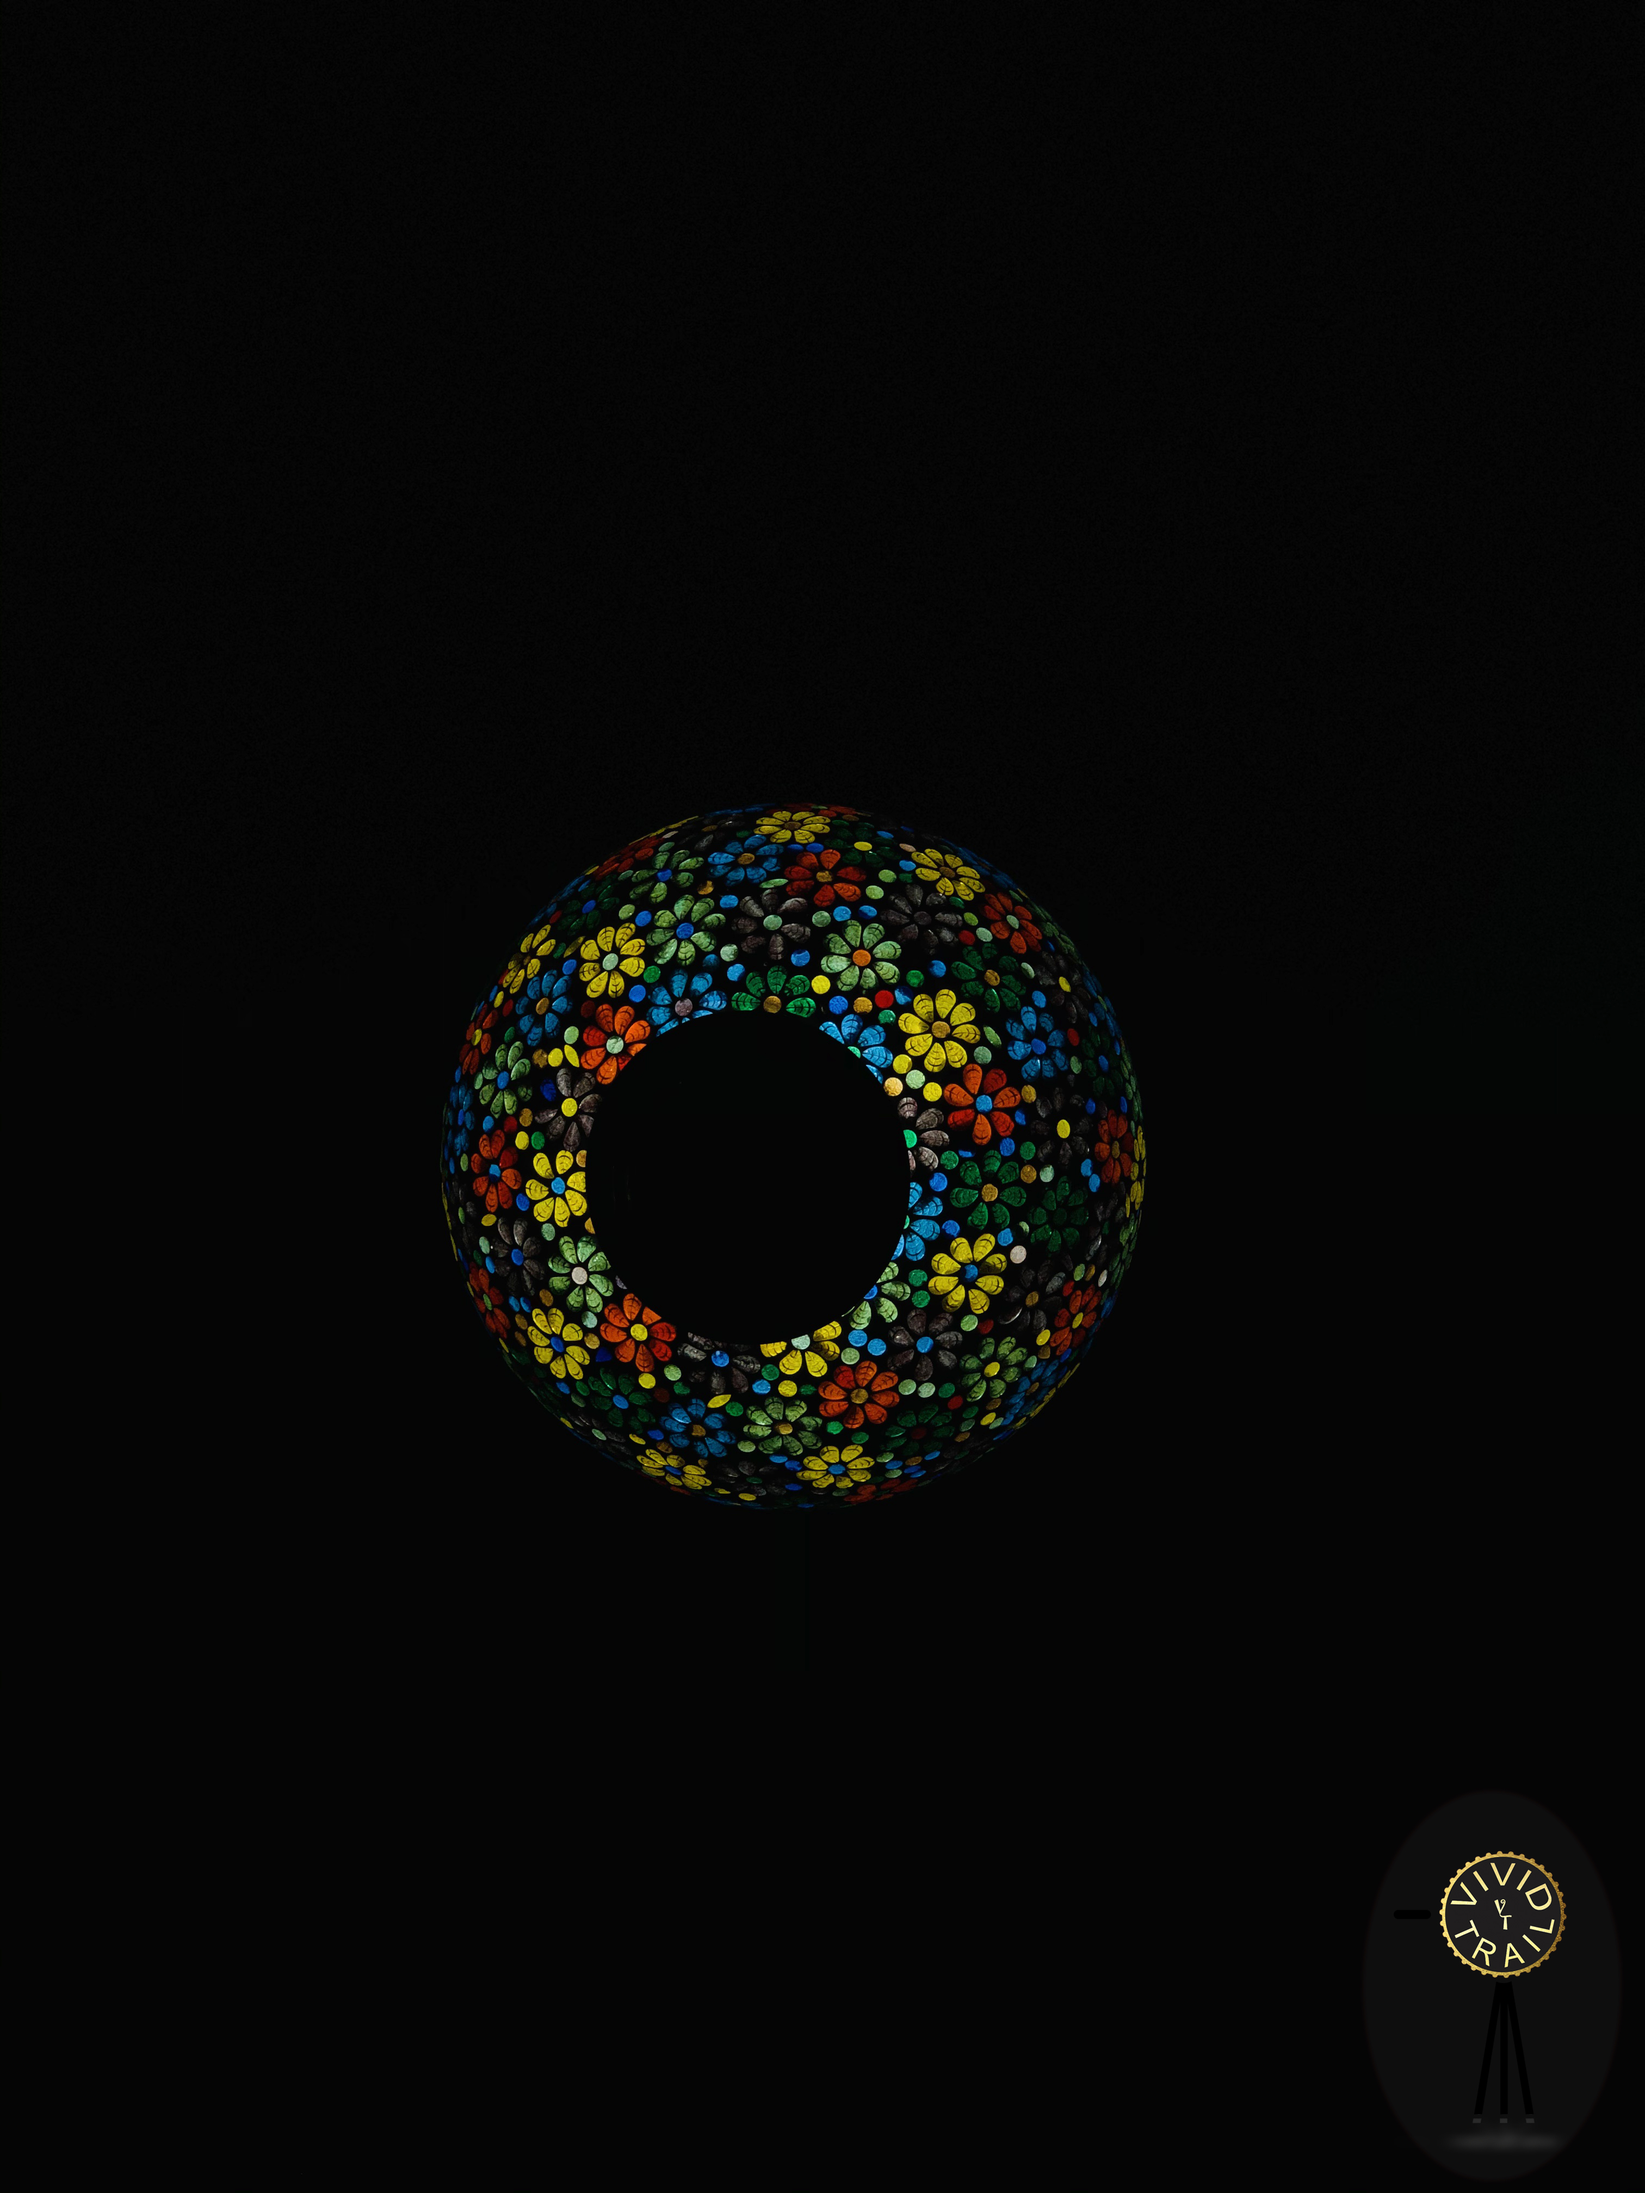
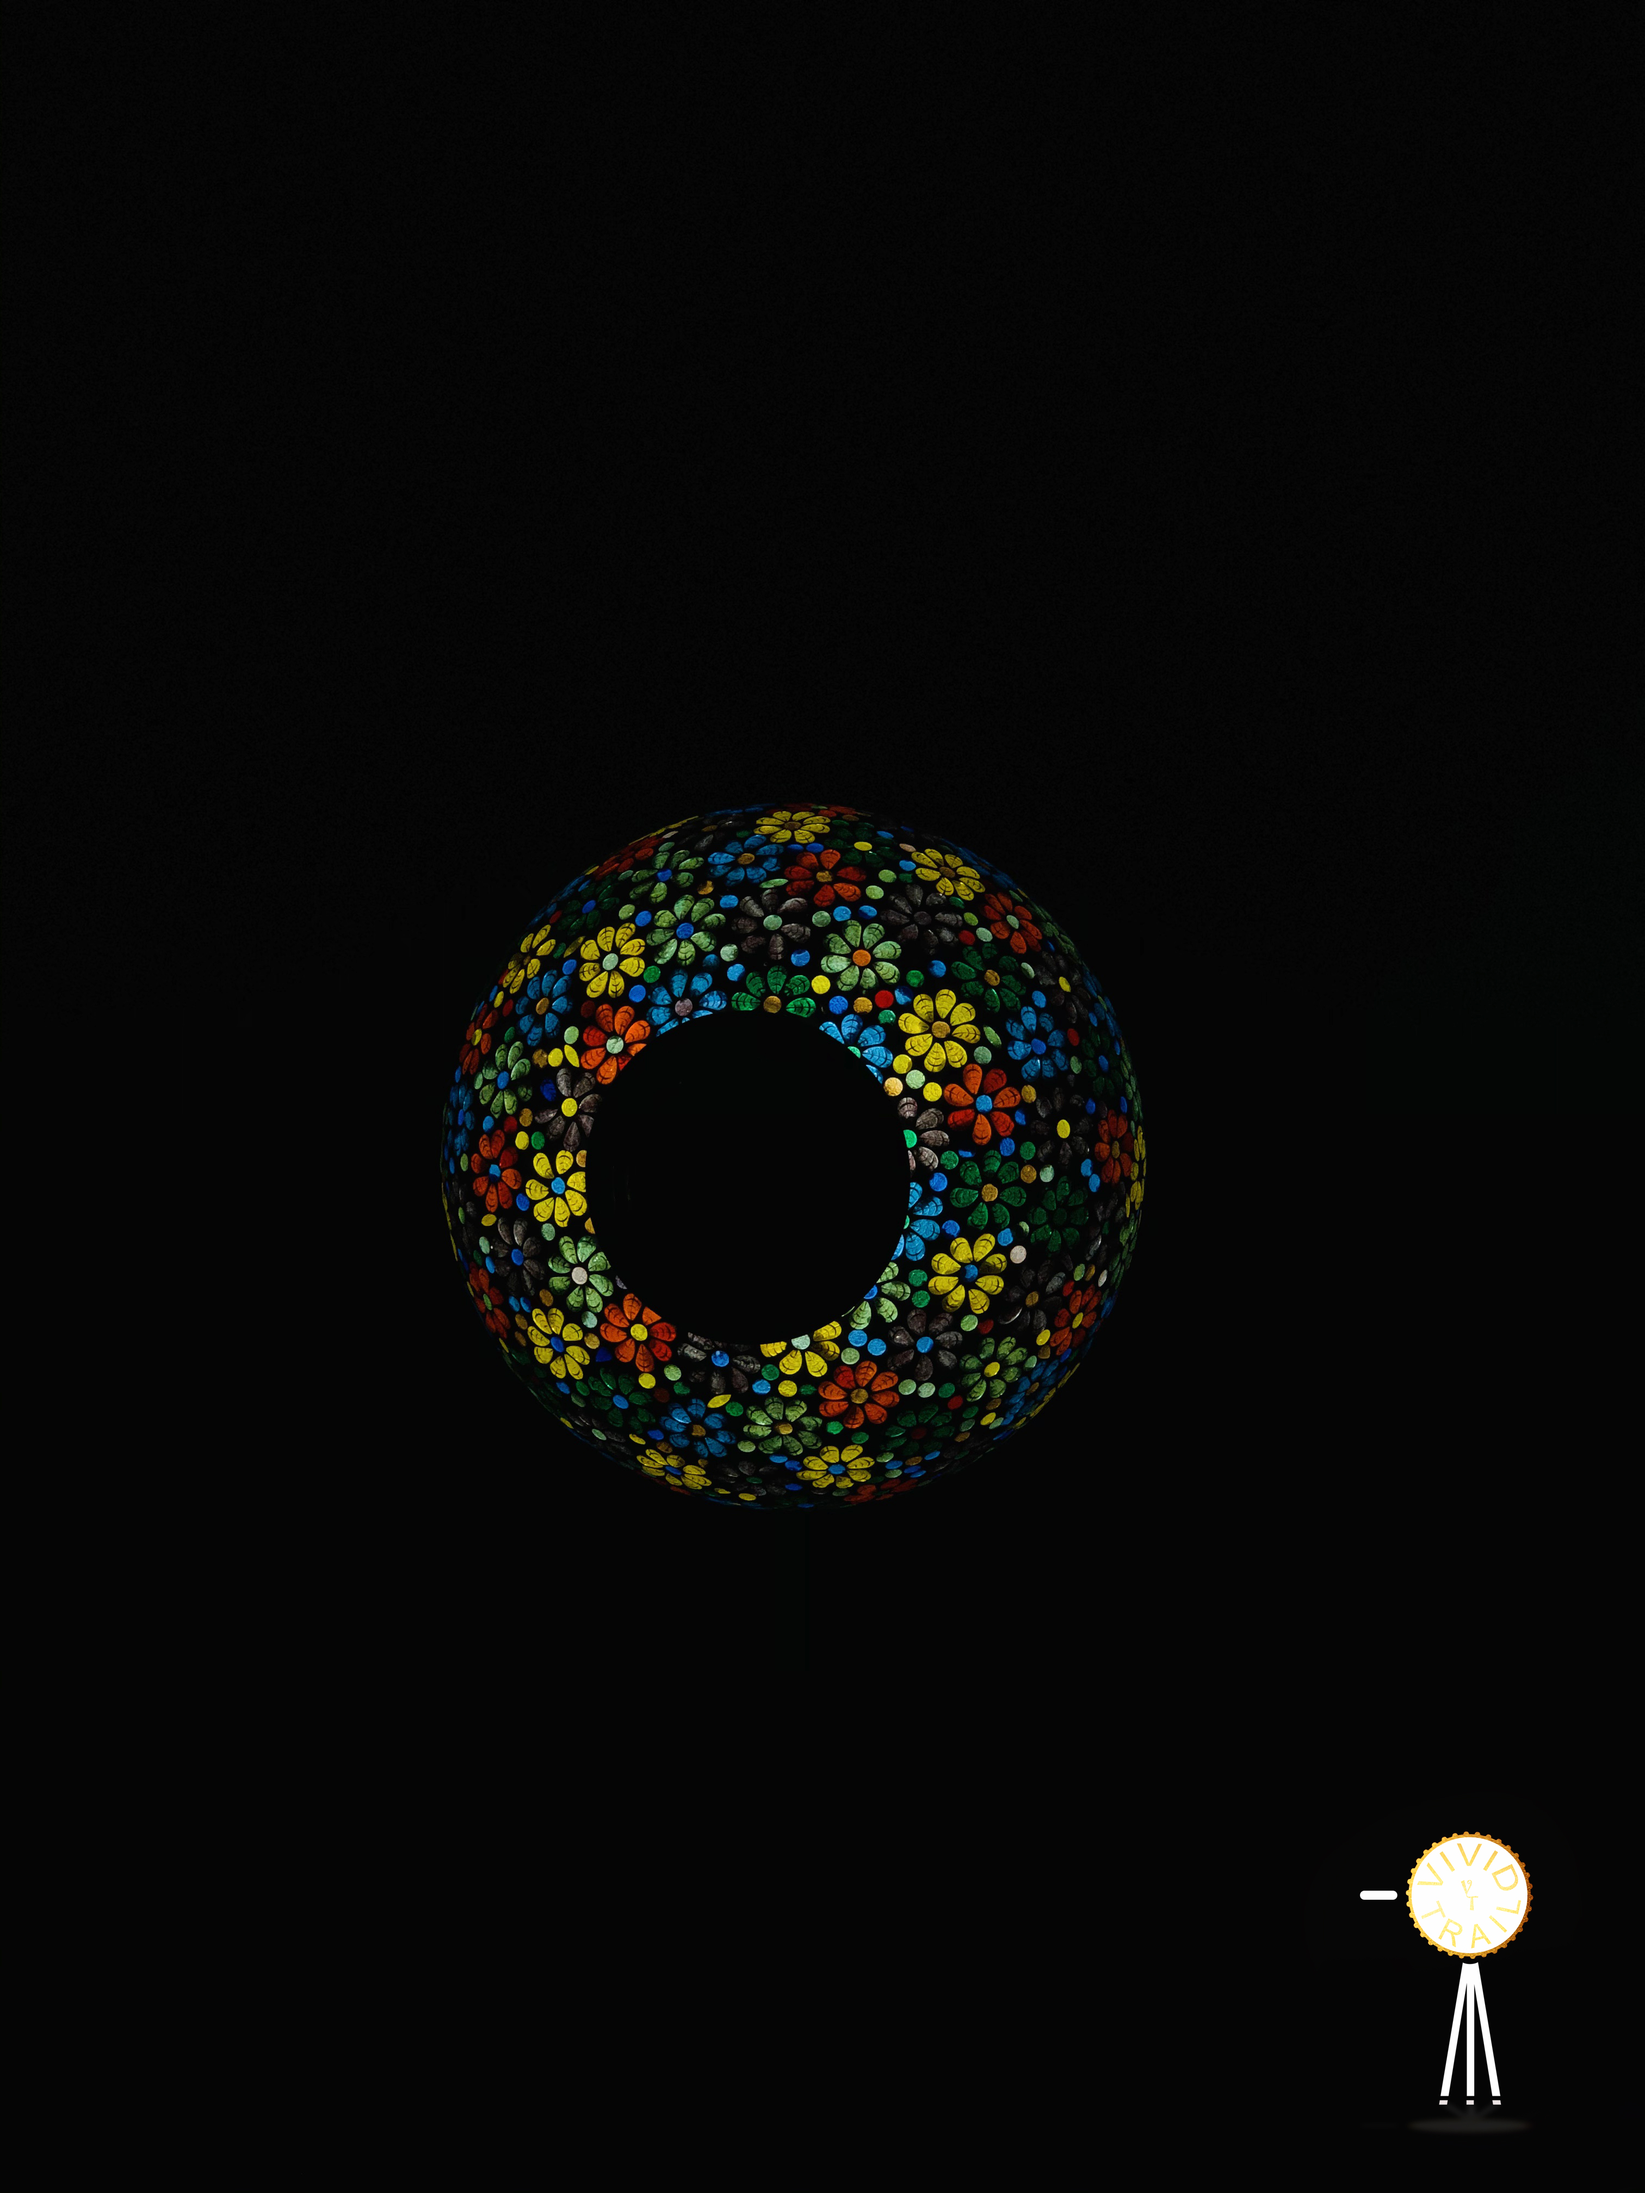
fifth commit changes requested by the client

Changed region(s): [[0.8393, 0.8125, 0.9636, 1.0]]

diff --git a/index.html b/index.html
@@ -27,7 +27,7 @@
         <!--Navigation Bar-->
         <nav class="navbar">
             <div class="logo">
-                <img src="media/img/vividlogo.png" class="img-logo img-fluid"> &nbsp; Vivid Trail
+                <img src="media/img/vividlogo-dark.png" class="img-logo img-fluid"> &nbsp; Vivid Trail
             </div>
             <ul class="nav-links" id="menu-nav">
                 <li>
@@ -69,7 +69,7 @@
 
                 </div>
 
-                <div class="col">
+                <div class="col right-col-home">
                     <p class="title-col-home"><span>S</span>implicty. <span>E</span>legance. <span>E</span>nchantment. </p>
                     <p class="title-col-home"><span>S</span>erenity. <span>N</span>ostalgie. <span>A</span>rtistry. <span>P</span>ictures. </p>
                 </div>
@@ -97,6 +97,9 @@
                         hopefully when we're old we will be proud of our life looking back. I want to create that one moment for you, which you can look back upon and be proud of your life.
                     </p>
                 </div>
+
+            </div>
+            <div class="row about-row">
                 <div class="col about-col">
                     <p class="about-content-title"> What does it mean to be a photographer?</p>
                     <p class="about-content-info"><span>A picture is worth a thousand words.</span> A picture tells a story. The story of a moment in time. A story that years later still invokes emotions in your heart. Pictures are precious and we are fortunate enough to live in an
@@ -124,7 +127,7 @@
             <div class="row img-row">
 
                 <div class="col left-img-col">
-                    <img src="media/img/2.jpg" alt="vividtrail" class="gallery-img img-fluid">
+                    <embed src="media/img/2.jpg" alt="vividtrail" class="gallery-img img-fluid">
                     <p>Shot on Iphone X</p>
                 </div>
 
@@ -141,7 +144,7 @@
                     <p> Panglossian</p>
                 </div>
                 <div class="col right-img-col">
-                    <img src="media/img/3.jpg" alt="vividtrail" class="gallery-img-right img-fluid">
+                    <embed src="media/img/3.jpg" alt="vividtrail" class="gallery-img-right img-fluid">
                     <p>Shot on Iphone X</p>
                 </div>
 
@@ -151,7 +154,7 @@
             <div class="row img-row">
 
                 <div class="col left-img-col">
-                    <img src="media/img/4.jpg" alt="vividtrail" class="gallery-img img-fluid">
+                    <embed src="media/img/4.jpg" alt="vividtrail" class="gallery-img img-fluid">
                     <p>Shot on Iphone X</p>
                 </div>
 

diff --git a/css/vivid.css b/css/vivid.css
@@ -1,8 +1,9 @@
-* {
+html,
+body {
     margin: 0;
     padding: 0;
     box-sizing: border-box;
-    color: #d4af37;
+    color: #d4af37 !important;
     background-color: black !important;
     scroll-behavior: smooth;
 }
@@ -11,14 +12,18 @@ nav {
     display: flex !important;
     justify-content: space-around !important;
     align-items: center;
-    background-color: #000000 !important;
+    background-color: whitesmoke !important;
     min-height: 8vh;
     box-shadow: 0 4px 8px 0 rgba(194, 159, 3, 0.2);
 }
 
+img {
+    pointer-events: none;
+}
+
 .logo {
     text-transform: uppercase;
-    color: azure !important;
+    color: #000000 !important;
     letter-spacing: 5px;
 }
 
@@ -31,7 +36,7 @@ nav {
     display: flex;
     justify-content: space-around;
     width: 50%;
-    color: azure !important;
+    color: #000000 !important;
 }
 
 .nav-links a {
@@ -39,7 +44,7 @@ nav {
     letter-spacing: 3px;
     font-weight: normal;
     font-size: 14px;
-    color: azure !important;
+    color: #000000 !important;
 }
 
 .nav-links li {
@@ -102,11 +107,12 @@ ul li a:hover::after {
     font-family: 'Yanone Kaffeesatz', sans-serif;
     font-size: 30px;
     letter-spacing: 3px;
-    padding-top: 30px;
+    padding-top: 60px;
 }
 
 .title-col-home span {
     color: whitesmoke;
+    font-size: 45px;
 }
 
 #about {
@@ -146,13 +152,13 @@ ul li a:hover::after {
     color: #d4af37;
     text-align: justify;
     padding-top: 30px;
-    font-size: 20px;
+    font-size: 24px;
     opacity: 85%;
     font-family: 'Dancing Script', cursive;
 }
 
 .about-content-info span {
-    font-size: 25px;
+    font-size: 55px;
     color: #d4af37;
 }
 

diff --git a/js/vivid.js b/js/vivid.js
@@ -3,3 +3,10 @@ let navbartoggle = document.getElementById('toggle');
 navbartoggle.addEventListener('click', function() {
     mainNav.classList.toggle('burger');
 })
+
+
+(function($) {
+    $(document).on('contextmenu', 'img', function() {
+        return false;
+    })
+});
